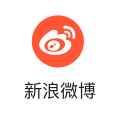
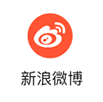
<feat>  modify index style
Author:rapospectre@gmail.com

Desc: modify index style

diff --git a/static/css/index.css b/static/css/index.css
@@ -124,7 +124,7 @@ body {
 }
 
 .download_button {
-    width: 50%;
+    width: 76%;
     margin: 0 auto;
 
 }
@@ -159,19 +159,19 @@ body {
 
 .sina {
     float: left;
-    height: 118px;
-    width: 118px;
+    height: 103px;
+    width: 103px;
     background-image: url(/s/image/sina.png);
     display: block;
 }
 
 .tel {
-    height: 53px;
-    width: 300px;
+    height: 45px;
+    width: 255px;
     background-image: url(/s/image/cover.png);
     display: block;
     margin-bottom: 12px;
-    font-size: large;
+    font-size: medium;
     color: black;
 }
 
